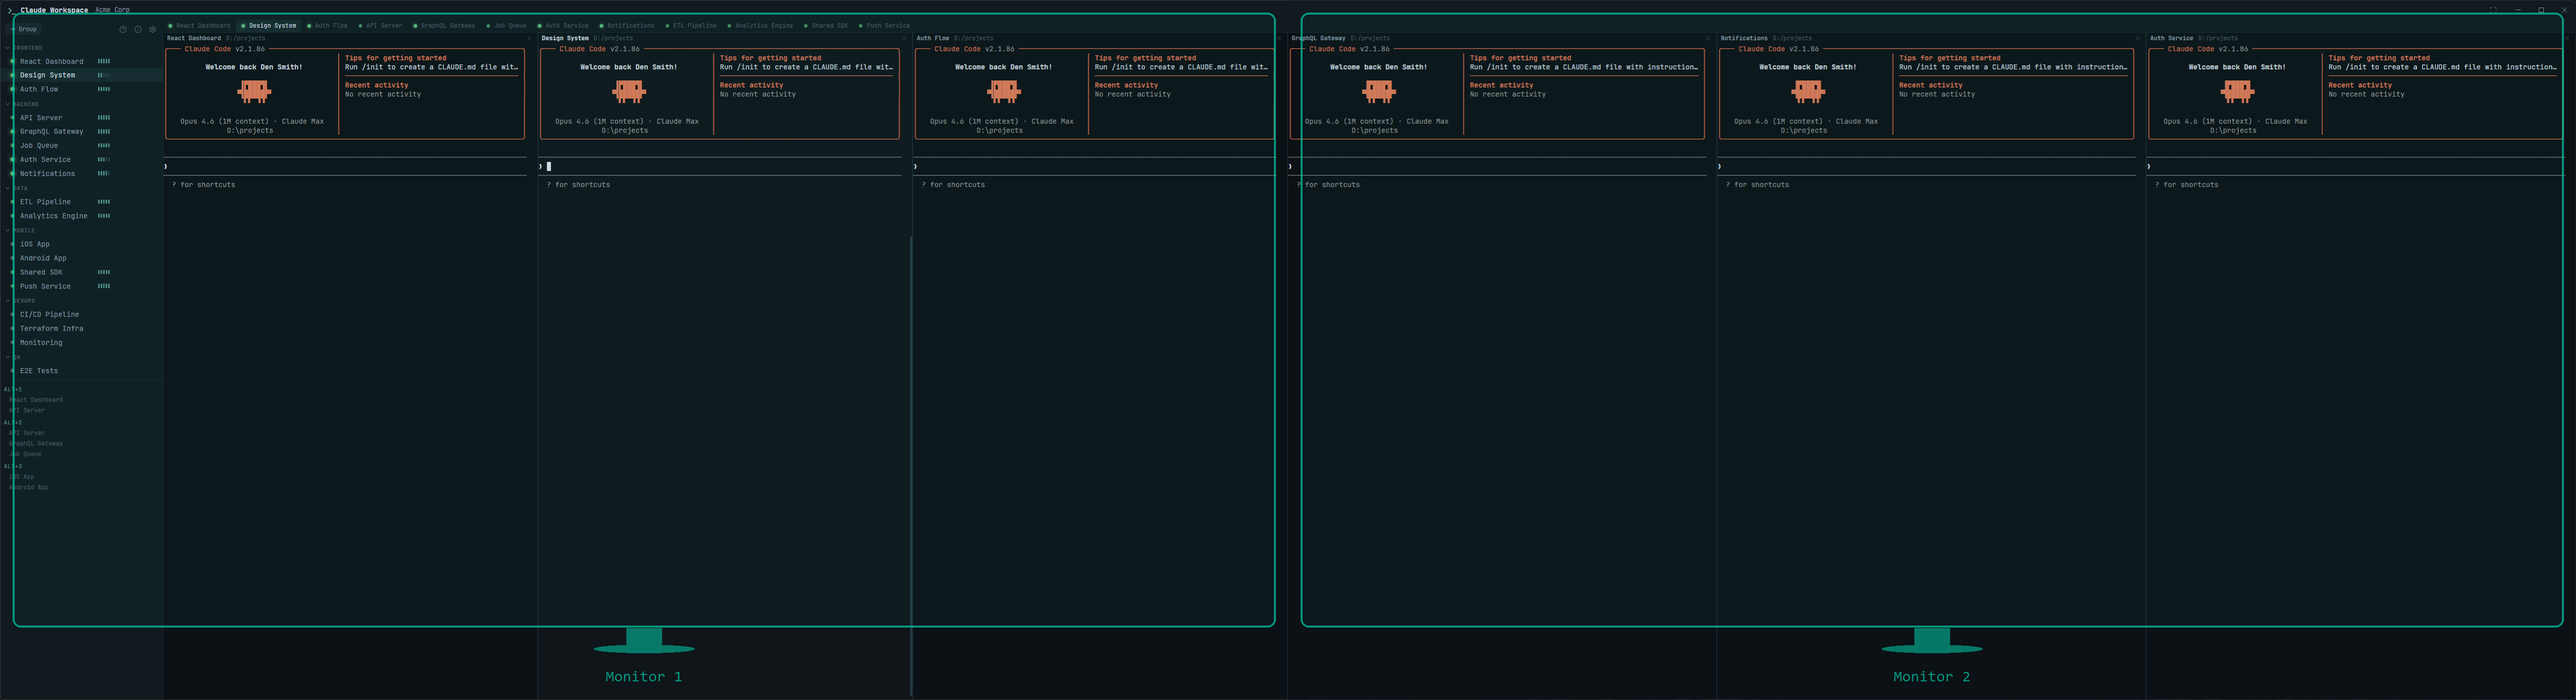
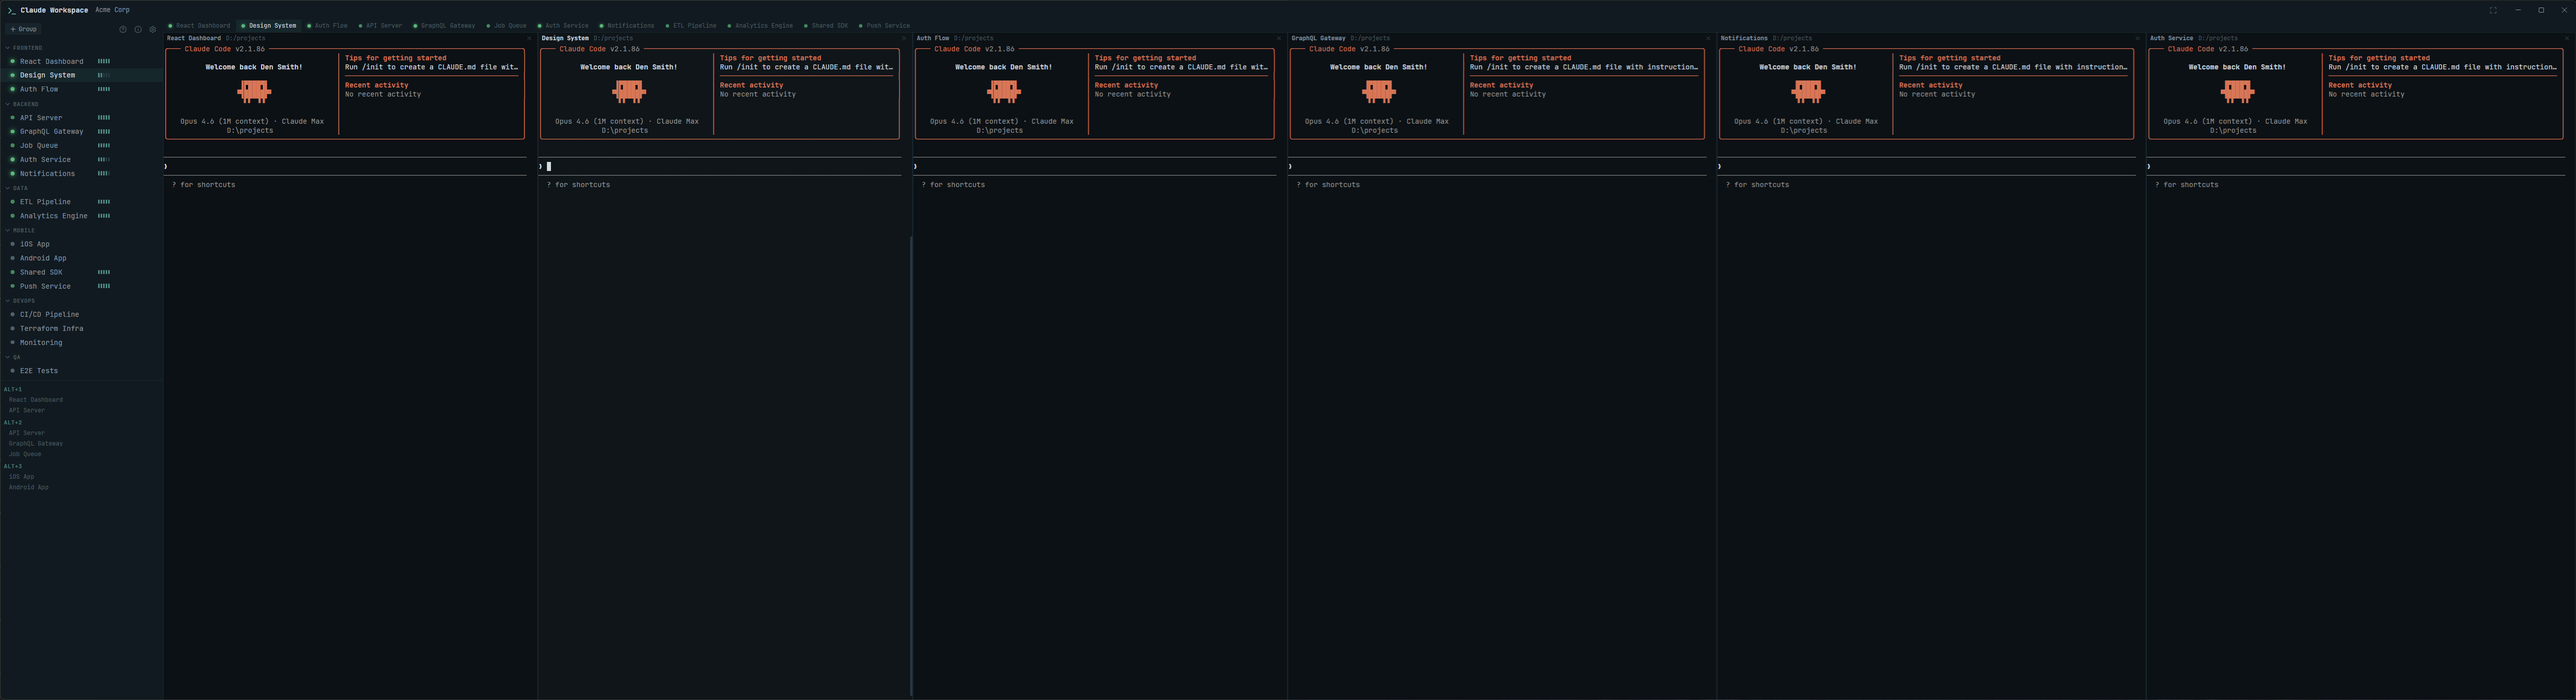
Add wide/multi-monitor screenshot with monitor outlines

Changed region(s): [[0.7188, 0.8958, 0.7812, 0.9576], [0.2188, 0.8958, 0.2812, 0.9576]]

diff --git a/README.md b/README.md
@@ -6,7 +6,7 @@ Desktop app for managing multiple [Claude Code](https://docs.anthropic.com/en/do
 
 ### Wide display and multiple display ready
 
-![Claude Workspace Wide](app-wide.png)
+![Claude Workspace Wide](app-wide-monitors.png)
 
 ## Features
 
